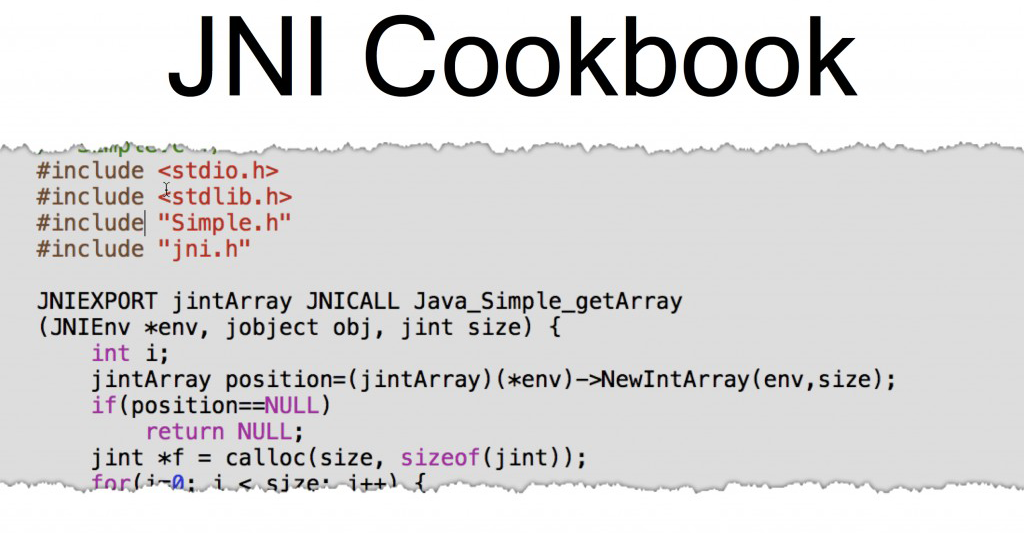
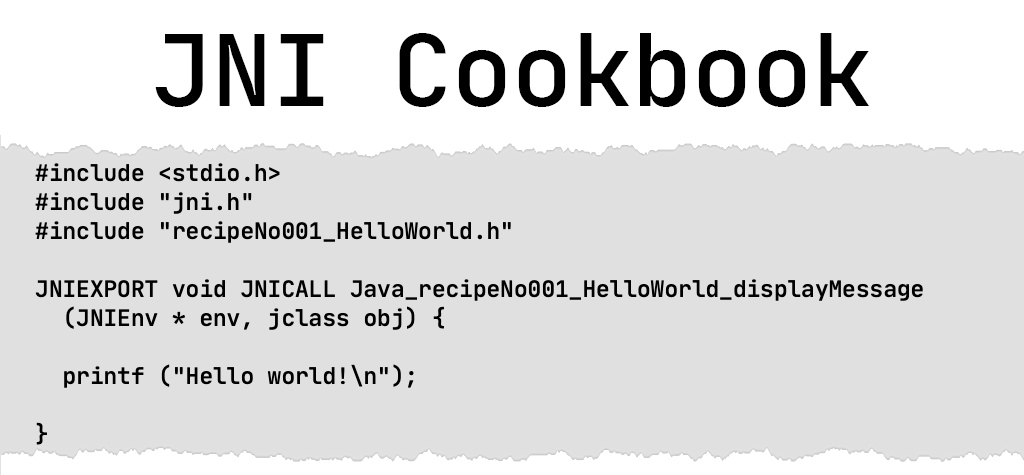
New cover - this time based on JetBrains Mono

diff --git a/recipes/README.md b/recipes/README.md
@@ -1,0 +1,86 @@
+[![Price](https://img.shields.io/badge/price-FREE-0098f7.svg)](https://github.com/mkowsiak/jnicookbook/blob/master/LICENSE.md)
+[![GitHub](https://img.shields.io/badge/license-GPLv3-green.svg)](https://github.com/mkowsiak/jnicookbook/blob/master/LICENSE.md)
+[![Download](https://img.shields.io/badge/download-click%20here-red.svg)](https://github.com/mkowsiak/jnicookbook/archive/master.zip)
+
+# Table of content
+
+|Recipe № | Short description |
+|---|---|
+|[recipe&nbsp;№&nbsp;001](http://jnicookbook.owsiak.org/recipe-No-001/)|running simple JNI code [[source]](https://github.com/mkowsiak/jnicookbook/tree/master/recipes/recipeNo001)|
+|[recipe&nbsp;№&nbsp;002](http://jnicookbook.owsiak.org/recipe-No-002/)|passing int value from Java to C [[source]](https://github.com/mkowsiak/jnicookbook/tree/master/recipes/recipeNo002)|
+|[recipe&nbsp;№&nbsp;003](http://jnicookbook.owsiak.org/recipe-No-003/)|passing double value from Java to C [[source]](https://github.com/mkowsiak/jnicookbook/tree/master/recipes/recipeNo003)|
+|[recipe&nbsp;№&nbsp;004](http://jnicookbook.owsiak.org/recipe-No-004/)|passing long value from Java to C [[source]](https://github.com/mkowsiak/jnicookbook/tree/master/recipes/recipeNo004)|
+|[recipe&nbsp;№&nbsp;005](http://jnicookbook.owsiak.org/recipe-No-005/)|passing short value from Java to C [[source]](https://github.com/mkowsiak/jnicookbook/tree/master/recipes/recipeNo005)|
+|[recipe&nbsp;№&nbsp;006](http://jnicookbook.owsiak.org/recipe-No-006/)|passing char value from Java to C [[source]](https://github.com/mkowsiak/jnicookbook/tree/master/recipes/recipeNo006)|
+|[recipe&nbsp;№&nbsp;007](http://jnicookbook.owsiak.org/recipe-No-007/)|passing byte value from Java to C [[source]](https://github.com/mkowsiak/jnicookbook/tree/master/recipes/recipeNo007)|
+|[recipe&nbsp;№&nbsp;008](http://jnicookbook.owsiak.org/recipe-No-008/)|passing boolean value from Java to C [[source]](https://github.com/mkowsiak/jnicookbook/tree/master/recipes/recipeNo008)|
+|[recipe&nbsp;№&nbsp;009](http://jnicookbook.owsiak.org/recipe-No-009/)|passing java.lang.String value from Java to C [[source]](https://github.com/mkowsiak/jnicookbook/tree/master/recipes/recipeNo009)|
+|[recipe&nbsp;№&nbsp;010](http://jnicookbook.owsiak.org/recipe-No-010/)|passing java.lang.String value from C to Java [[source]](https://github.com/mkowsiak/jnicookbook/tree/master/recipes/recipeNo010)|
+|[recipe&nbsp;№&nbsp;011](http://jnicookbook.owsiak.org/recipe-No-011/)|passing primitive types from C to Java [[source]](https://github.com/mkowsiak/jnicookbook/tree/master/recipes/recipeNo011)|
+|[recipe&nbsp;№&nbsp;012](http://jnicookbook.owsiak.org/recipe-No-012/)|passing primitives array from Java to C [[source]](https://github.com/mkowsiak/jnicookbook/tree/master/recipes/recipeNo012)|
+|[recipe&nbsp;№&nbsp;013](http://jnicookbook.owsiak.org/recipe-No-013/)|passing primitives array from Java to C and back (commit changes) [[source]](https://github.com/mkowsiak/jnicookbook/tree/master/recipes/recipeNo013)|
+|[recipe&nbsp;№&nbsp;014](http://jnicookbook.owsiak.org/recipe-No-014/)|passing memory allocated in C back to Java [[source]](https://github.com/mkowsiak/jnicookbook/tree/master/recipes/recipeNo014)|
+|[recipe&nbsp;№&nbsp;015](http://jnicookbook.owsiak.org/recipe-No-015/)|handling SIGSEGV/SIGBUS in JNI code (stop JVM from crashing) [[source]](https://github.com/mkowsiak/jnicookbook/tree/master/recipes/recipeNo015)|
+|[recipe&nbsp;№&nbsp;016](http://jnicookbook.owsiak.org/recipe-No-016/)|handling exit calls from external library called via JNI (atexit) [[source]](https://github.com/mkowsiak/jnicookbook/tree/master/recipes/recipeNo016)|
+|[recipe&nbsp;№&nbsp;017](http://jnicookbook.owsiak.org/recipe-No-017/)|handling exit calls from external library called via JNI (-Dexit) [[source]](https://github.com/mkowsiak/jnicookbook/tree/master/recipes/recipeNo017)|
+|[recipe&nbsp;№&nbsp;018](http://jnicookbook.owsiak.org/recipe-No-018)|dynamic loading of library in JNI [[source]](https://github.com/mkowsiak/jnicookbook/tree/master/recipes/recipeNo018)|
+|[recipe&nbsp;№&nbsp;019](http://jnicookbook.owsiak.org/recipe-No-019/)|throwing exception from C code [[source]](https://github.com/mkowsiak/jnicookbook/tree/master/recipes/recipeNo019)|
+|[recipe&nbsp;№&nbsp;020](http://jnicookbook.owsiak.org/recipe-No-020/)|accessing fields of object passed as argument [[source]](https://github.com/mkowsiak/jnicookbook/tree/master/recipes/recipeNo020)|
+|[recipe&nbsp;№&nbsp;021](http://jnicookbook.owsiak.org/recipe-No-021/)|calling function from different source file [[source]](https://github.com/mkowsiak/jnicookbook/tree/master/recipes/recipeNo021)|
+|[recipe&nbsp;№&nbsp;022](http://jnicookbook.owsiak.org/recipe-No-022/)|Java based daemon [[source]](https://github.com/mkowsiak/jnicookbook/tree/master/recipes/recipeNo022)|
+|[recipe&nbsp;№&nbsp;023](http://jnicookbook.owsiak.org/recipe-No-023/)|calling code from another shared library [[source]](https://github.com/mkowsiak/jnicookbook/tree/master/recipes/recipeNo023)|
+|[recipe&nbsp;№&nbsp;024](http://jnicookbook.owsiak.org/recipe-No-024/)|calling JNI methods from Threads and how to debug them using gdb [[source]](https://github.com/mkowsiak/jnicookbook/tree/master/recipes/recipeNo024)|
+|recipe&nbsp;№&nbsp;025|calling C++ code from C wrapper [[source]](https://github.com/mkowsiak/jnicookbook/tree/master/recipes/recipeNo025)|
+|recipe&nbsp;№&nbsp;026|passing 2D arrays from Java to C [[source]](https://github.com/mkowsiak/jnicookbook/tree/master/recipes/recipeNo026)|
+|[recipe&nbsp;№&nbsp;027](http://jnicookbook.owsiak.org/recipe-no-027/)|Calling class methods from multiple threads [[source]](https://github.com/mkowsiak/jnicookbook/tree/master/recipes/recipeNo027)|
+|recipe&nbsp;№&nbsp;028|Calling JVM class from C (first draft for thread based computations) [[source]](https://github.com/mkowsiak/jnicookbook/tree/master/recipes/recipeNo028)|
+|[recipe&nbsp;№&nbsp;029](http://jnicookbook.owsiak.org/recipe-no-029/)|Running Java as daemon – main daemon’s loop in Java [[source]](https://github.com/mkowsiak/jnicookbook/tree/master/recipes/recipeNo029)|
+|[recipe&nbsp;№&nbsp;030](http://jnicookbook.owsiak.org/recipe-no-030/)|Abstract method and native implementation [[source]](https://github.com/mkowsiak/jnicookbook/tree/master/recipes/recipeNo030)|
+|recipe&nbsp;№&nbsp;031|Running simple JNI code from inside JAR file [[source]](https://github.com/mkowsiak/jnicookbook/tree/master/recipes/recipeNo031)|
+|recipe&nbsp;№&nbsp;032|Calling JVM from multiple C threads [[source]](https://github.com/mkowsiak/jnicookbook/tree/master/recipes/recipeNo032)|
+|recipe&nbsp;№&nbsp;033|Comparing execution time of "Hello world!" executed from JNI/JNA/ProcessBuilder [[source]](https://github.com/mkowsiak/jnicookbook/tree/master/recipes/recipeNo033)|
+|recipe&nbsp;№&nbsp;034|Running simple JNI code from Outer class and Inner class [[source]](https://github.com/mkowsiak/jnicookbook/tree/master/recipes/recipeNo034)|
+|recipe&nbsp;№&nbsp;035|Running simple JNI code from inside JAR file with libraries it depends on [[source]](https://github.com/mkowsiak/jnicookbook/tree/master/recipes/recipeNo035)|
+|recipe&nbsp;№&nbsp;037|Passing HashMap to C code via JNI [[source]](https://github.com/mkowsiak/jnicookbook/tree/master/recipes/recipeNo037)|
+|recipe&nbsp;№&nbsp;038|Passing HashMap to C code via JNI (using two arrays) [[source]](https://github.com/mkowsiak/jnicookbook/tree/master/recipes/recipeNo038)|
+|recipe&nbsp;№&nbsp;039|Calling (from C) Java method that returns 2D array [[source]](https://github.com/mkowsiak/jnicookbook/tree/master/recipes/recipeNo039)|
+|recipe&nbsp;№&nbsp;040|Passing ByteBuffer to C code via JNI [[source]](https://github.com/mkowsiak/jnicookbook/tree/master/recipes/recipeNo040)|
+|recipe&nbsp;№&nbsp;042|Passing Set of Strings to C code via JNI [[source]](https://github.com/mkowsiak/jnicookbook/tree/master/recipes/recipeNo042)|
+|recipe&nbsp;№&nbsp;043|Settings environment variable inside JVM via JNI [[source]](https://github.com/mkowsiak/jnicookbook/tree/master/recipes/recipeNo043)|
+|recipe&nbsp;№&nbsp;044|Getting info (inside JNI code) regarding current thread using java.lang.Thread [[source]](https://github.com/mkowsiak/jnicookbook/tree/master/recipes/recipeNo044)|
+|[recipe&nbsp;№&nbsp;045](http://jnicookbook.owsiak.org/recipe-no-045/)|Returning vector<vector<float> > from C++ to Java [[source]](https://github.com/mkowsiak/jnicookbook/tree/master/recipes/recipeNo045)|
+|recipe&nbsp;№&nbsp;046|Filling java.util.List (passed to JNI) with data - inside C++ [[source]](https://github.com/mkowsiak/jnicookbook/tree/master/recipes/recipeNo046)|
+|recipe&nbsp;№&nbsp;047|Filling java.util.HashMap (passed to JNI) with data - inside C++ [[source]](https://github.com/mkowsiak/jnicookbook/tree/master/recipes/recipeNo047)|
+|recipe&nbsp;№&nbsp;048|Returning map<int, int> from C++ to Java [[source]](https://github.com/mkowsiak/jnicookbook/tree/master/recipes/recipeNo048)|
+|recipe&nbsp;№&nbsp;049|Redirecting JVM's System.out to file inside C code [[source]](https://github.com/mkowsiak/jnicookbook/tree/master/recipes/recipeNo049)|
+|recipe&nbsp;№&nbsp;050|How to find location of JAR from JNI [[source]](https://github.com/mkowsiak/jnicookbook/tree/master/recipes/recipeNo050)|
+|recipe&nbsp;№&nbsp;051|Very simple, Java based, 'Hello world' code - calling it from C [[source]](https://github.com/mkowsiak/jnicookbook/tree/master/recipes/recipeNo051)|
+|recipe&nbsp;№&nbsp;052|Registering native symbols without System.load [[source]](https://github.com/mkowsiak/jnicookbook/tree/master/recipes/recipeNo052)|
+|recipe&nbsp;№&nbsp;053|Accessing elements of array - GetByteArrayElements vs. GetPrimitiveArrayCritical [[source]](https://github.com/mkowsiak/jnicookbook/tree/master/recipes/recipeNo053)|
+|recipe&nbsp;№&nbsp;054|Hello Scala! [[source]](https://github.com/mkowsiak/jnicookbook/tree/master/recipes/recipeNo054)|
+|recipe&nbsp;№&nbsp;055|Unboxing primitive types from wrapper objects - method per type [[source]](https://github.com/mkowsiak/jnicookbook/tree/master/recipes/recipeNo055)|
+|recipe&nbsp;№&nbsp;056|Unboxing primitive types from wrapper objects - one method and IsInstanceOf [[source]](https://github.com/mkowsiak/jnicookbook/tree/master/recipes/recipeNo056)|
+|recipe&nbsp;№&nbsp;057|Hello Scala! I am passing structures! [[source]](https://github.com/mkowsiak/jnicookbook/tree/master/recipes/recipeNo057)|
+|recipe&nbsp;№&nbsp;058|Passing "unsigned long" to JNI [[source]](https://github.com/mkowsiak/jnicookbook/tree/master/recipes/recipeNo058)|
+|recipe&nbsp;№&nbsp;059|Using code from static library inside JNI based code [[source]](https://github.com/mkowsiak/jnicookbook/tree/master/recipes/recipeNo059)|
+|recipe&nbsp;№&nbsp;060|How to run Java code (with Log4j) from C [[source]](https://github.com/mkowsiak/jnicookbook/tree/master/recipes/recipeNo060)|
+|recipe&nbsp;№&nbsp;061|Passing std::map<std::string, std::string> from C++ to Java [[source]](https://github.com/mkowsiak/jnicookbook/tree/master/recipes/recipeNo061)|
+|recipe&nbsp;№&nbsp;063|Accessing fields of inner class [[source]](https://github.com/mkowsiak/jnicookbook/tree/master/recipes/recipeNo063)|
+|recipe&nbsp;№&nbsp;064|Running simple JNI code - using JDK9 modules [[source]](https://github.com/mkowsiak/jnicookbook/tree/master/recipes/recipeNo064)|
+|recipe&nbsp;№&nbsp;065|Very simple, Java based, 'Hello world' code - calling it from Objective-C (macOS only) [[source]](https://github.com/mkowsiak/jnicookbook/tree/master/recipes/recipeNo065)|
+|recipe&nbsp;№&nbsp;066|Embedding JVM inside macOS application bundle and calling JVM from Objective-C (macOS only) [[source]](https://github.com/mkowsiak/jnicookbook/tree/master/recipes/recipeNo066)|
+|recipe&nbsp;№&nbsp;067|Iterating over objects inside java.util.List - using get method [[source]](https://github.com/mkowsiak/jnicookbook/tree/master/recipes/recipeNo067)|
+|recipe&nbsp;№&nbsp;068|Iterating over objects inside java.util.List - using java.util.Iterator [[source]](https://github.com/mkowsiak/jnicookbook/tree/master/recipes/recipeNo068)|
+|recipe&nbsp;№&nbsp;069|Iterating over objects inside array of Objects (SimpleBean[]) [[source]](https://github.com/mkowsiak/jnicookbook/tree/master/recipes/recipeNo069)|
+|recipe&nbsp;№&nbsp;070|Passing structure by reference using JNA [[source]](https://github.com/mkowsiak/jnicookbook/tree/master/recipes/recipeNo070)|
+|recipe&nbsp;№&nbsp;071|Be carefull with errno. It can bite. [[source]](https://github.com/mkowsiak/jnicookbook/tree/master/recipes/recipeNo071)|
+|recipe&nbsp;№&nbsp;072|Handling errno using custom exception type [[source]](https://github.com/mkowsiak/jnicookbook/tree/master/recipes/recipeNo072)|
+|recipe&nbsp;№&nbsp;073|Passing errno and errno string inside wrapper class [[source]](https://github.com/mkowsiak/jnicookbook/tree/master/recipes/recipeNo073)|
+|recipe&nbsp;№&nbsp;074|Passing errno via JNI routine's arguments [[source]](https://github.com/mkowsiak/jnicookbook/tree/master/recipes/recipeNo074)|
+|recipe&nbsp;№&nbsp;075|Returning object with number of fields from JNI (constructor) [[source]](https://github.com/mkowsiak/jnicookbook/tree/master/recipes/recipeNo075)|
+|recipe&nbsp;№&nbsp;076|Returning object with number of fields from JNI (setters) [[source]](https://github.com/mkowsiak/jnicookbook/tree/master/recipes/recipeNo076)|
+|recipe&nbsp;№&nbsp;077|Passing null as method argument inside JNI [[source]](https://github.com/mkowsiak/jnicookbook/tree/master/recipes/recipeNo077)|
+|[recipe&nbsp;№&nbsp;D001](http://jnicookbook.owsiak.org/recipe-No-D001/)|debugging JNI code with CLion [[source]](https://github.com/mkowsiak/jnicookbook/tree/master/recipes/recipeNoD001)|
+|recipe&nbsp;№&nbsp;D003|Profiling JNI based code using Instruments.app (macOS only) [[source]](https://github.com/mkowsiak/jnicookbook/tree/master/recipes/recipeNoD003)|
+
+[![Download](https://img.shields.io/badge/download-click%20here-red.svg)](https://github.com/mkowsiak/jnicookbook/archive/master.zip)
